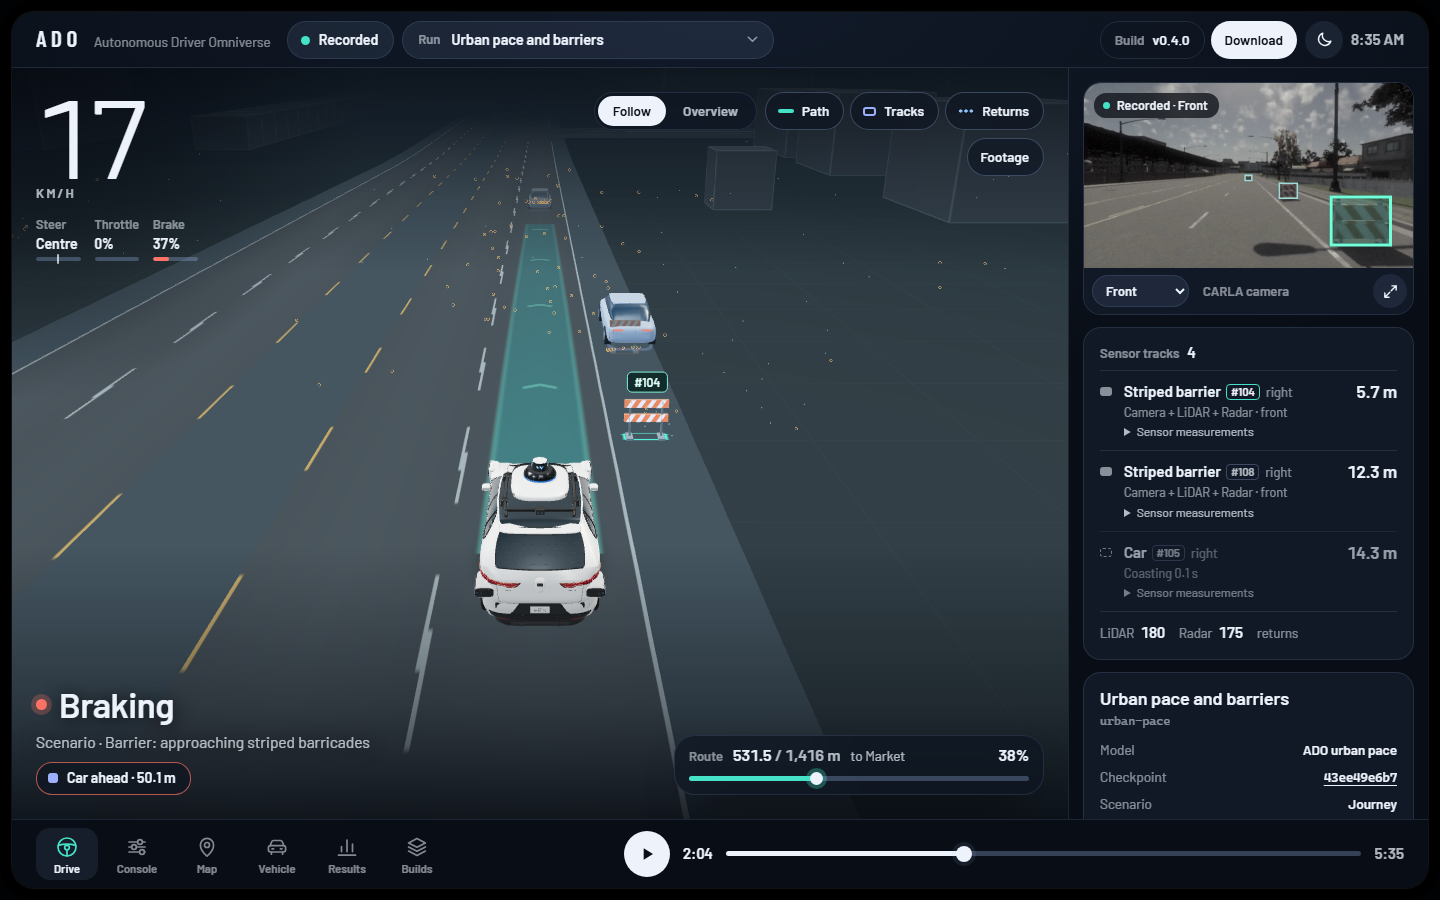
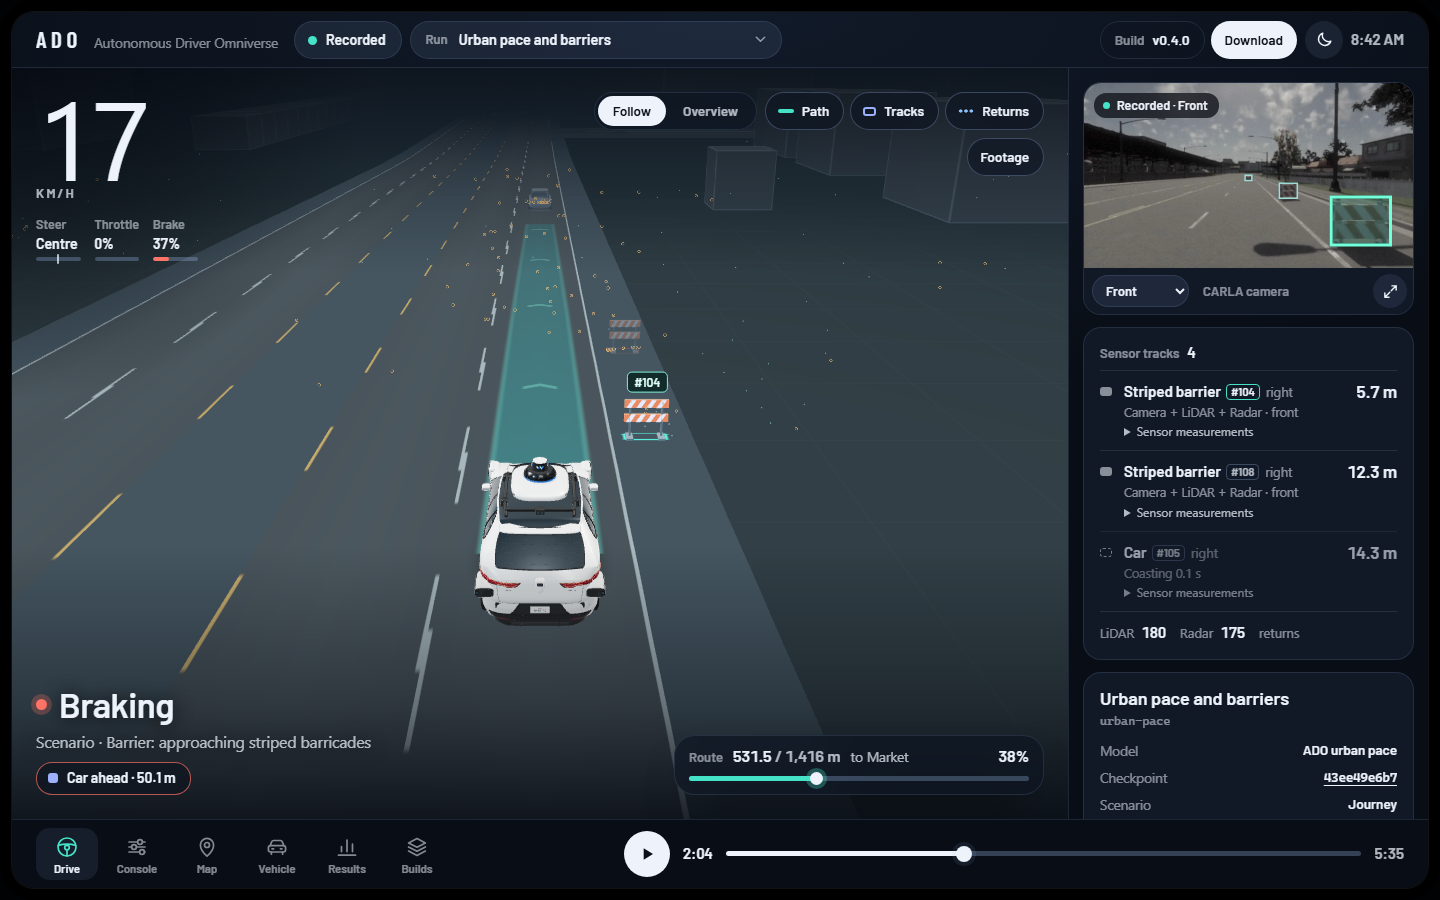
Verify the final two-board rider scene and its calibrated front camera

diff --git a/results/urban-pace/follow-turns.md b/results/urban-pace/follow-turns.md
@@ -6,6 +6,6 @@ Replaying these headings at a modeled 60 Hz, the former camera trailed body yaw 
 
 At native exposure boundaries, peak angular jerk fell from 45.687 to 25.923°/s³ and RMS jerk fell from 6.640 to 6.088°/s³. The 95th percentile rose slightly from 13.174 to 13.751°/s³. With camera footage hidden and the whole rider scene interpolated at 60 Hz, the 95th percentile fell from 59.137 to 14.008°/s³. The comparison applies both camera algorithms to the same vehicle trajectory.
 
-The installed homepage opened this drive in 3D Follow with the chase movie. On a turn at frame 3050, the camera advanced 56.2% through the interval while the drawn vehicle stayed at the movie exposure. A paused rewind to frame 3048 reset both fractions to zero. In the inspector, forward and backward steps around frame 3460 displayed the corresponding decoded front-camera timestamps of 124.7, 124.8 and 124.9 s. All 3,354 poses, controls and frame indices in the installed replay matched the raw capture.
+The installed homepage opened this drive in 3D Follow with the chase movie. On a turn at frame 3050, the camera advanced 10.3% through the interval while the drawn vehicle stayed at the movie exposure. A paused rewind to frame 3048 reset both fractions to zero. In the inspector, forward and backward steps around frame 3460 displayed the corresponding decoded front-camera timestamps of 124.7, 124.8 and 124.9 s. All 3,354 poses, controls and frame indices in the installed replay matched the raw capture.
 
-At frame 3460 the rider display shows two striped boards at the right curb. The selected board, track #104, has a 5.7 m range and camera, lidar and radar support. Its measured horizontal position is 0.134 m from the independently logged board. The camera inset shows its selected front-image box. [Full rider screenshot](../../docs/media/urban-pace.png)
+At frame 3460 the rider display shows two striped boards at the right curb. The selected board, track #104, has a 5.7 m range and camera, lidar and radar support. Its measured horizontal position is 0.134 m from the independently logged board. The camera inset shows its selected front-image box. The final renderer drew one striped board within 2 m of each staged actor (617 and 618). The sidebar retains raw coasting car measurement #105. The 3D scene drew no car at either board. [Full rider screenshot](../../docs/media/urban-pace.png)
